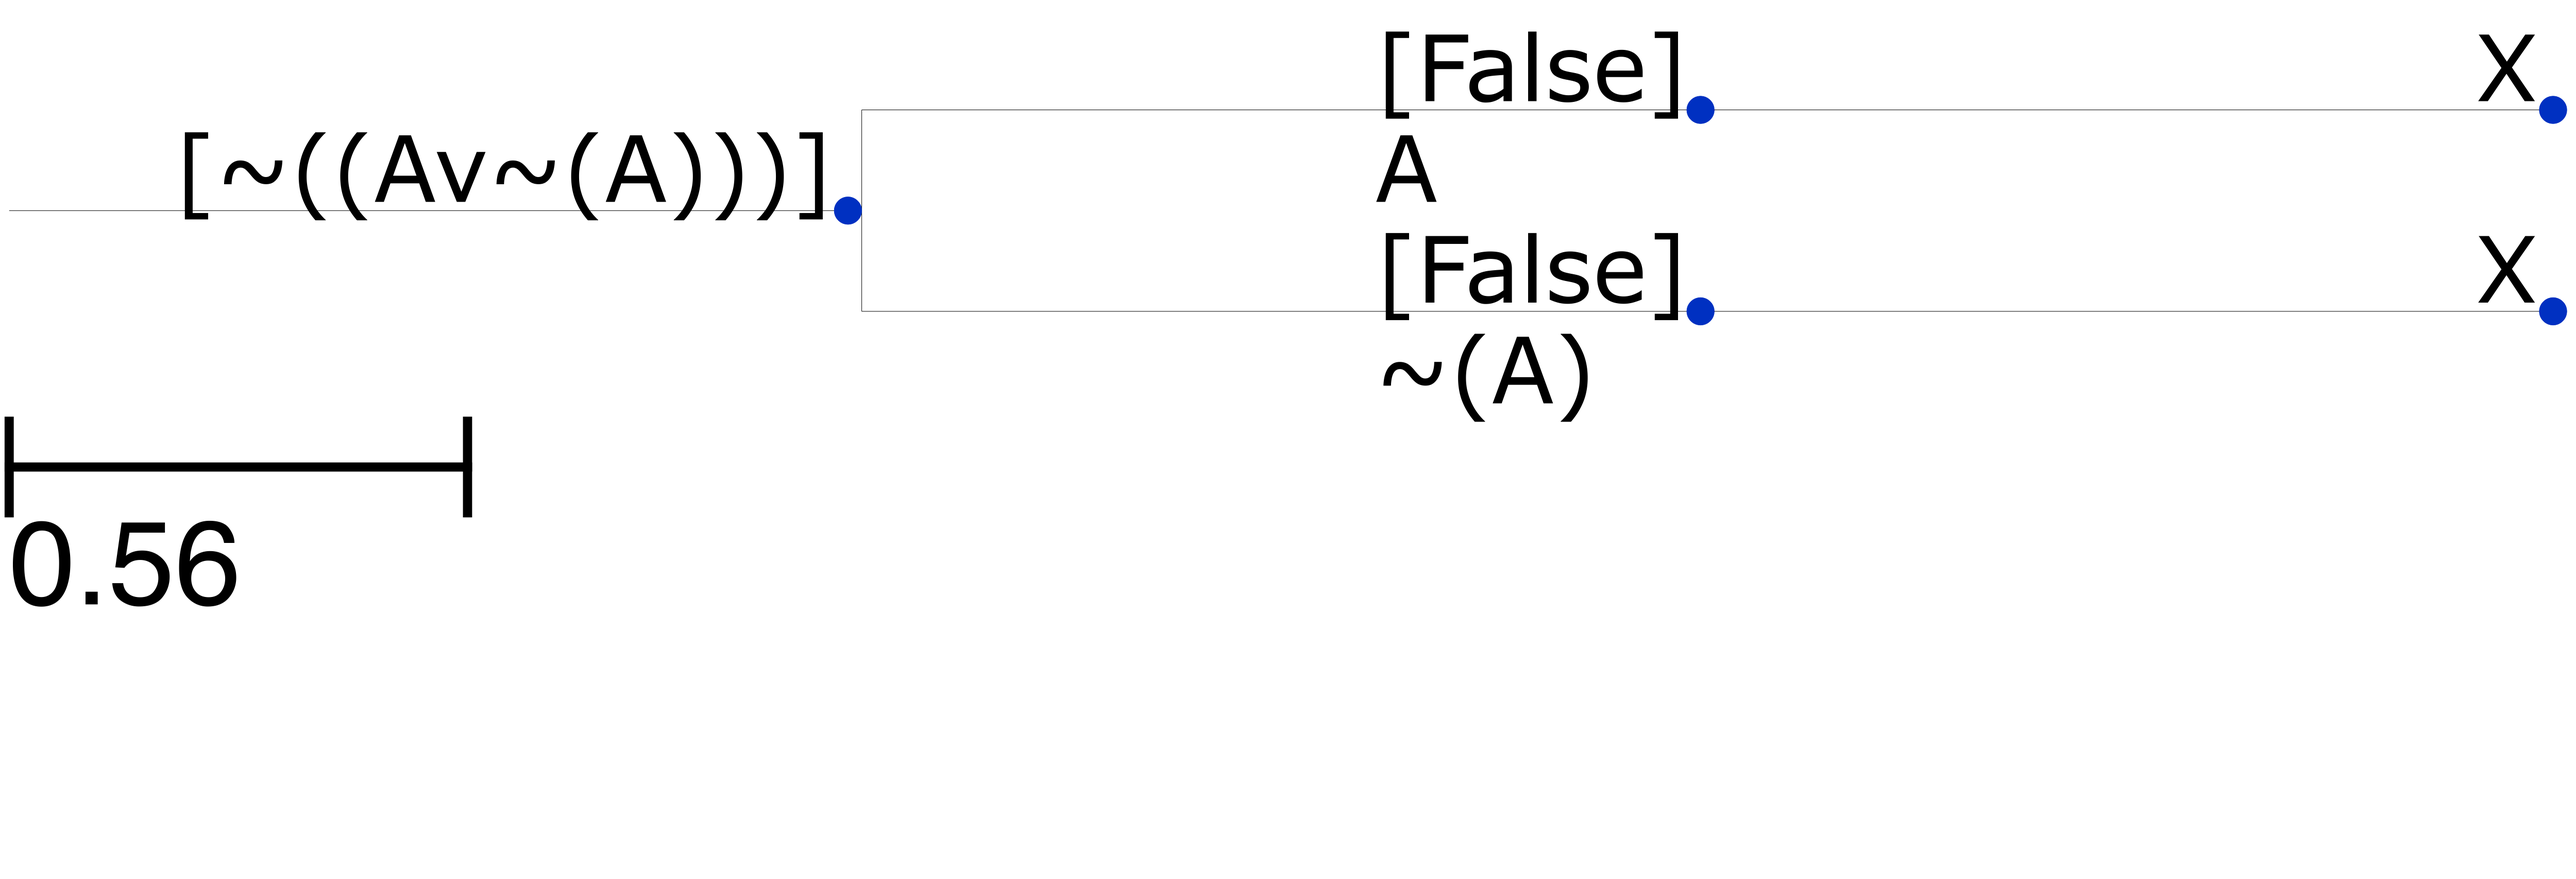
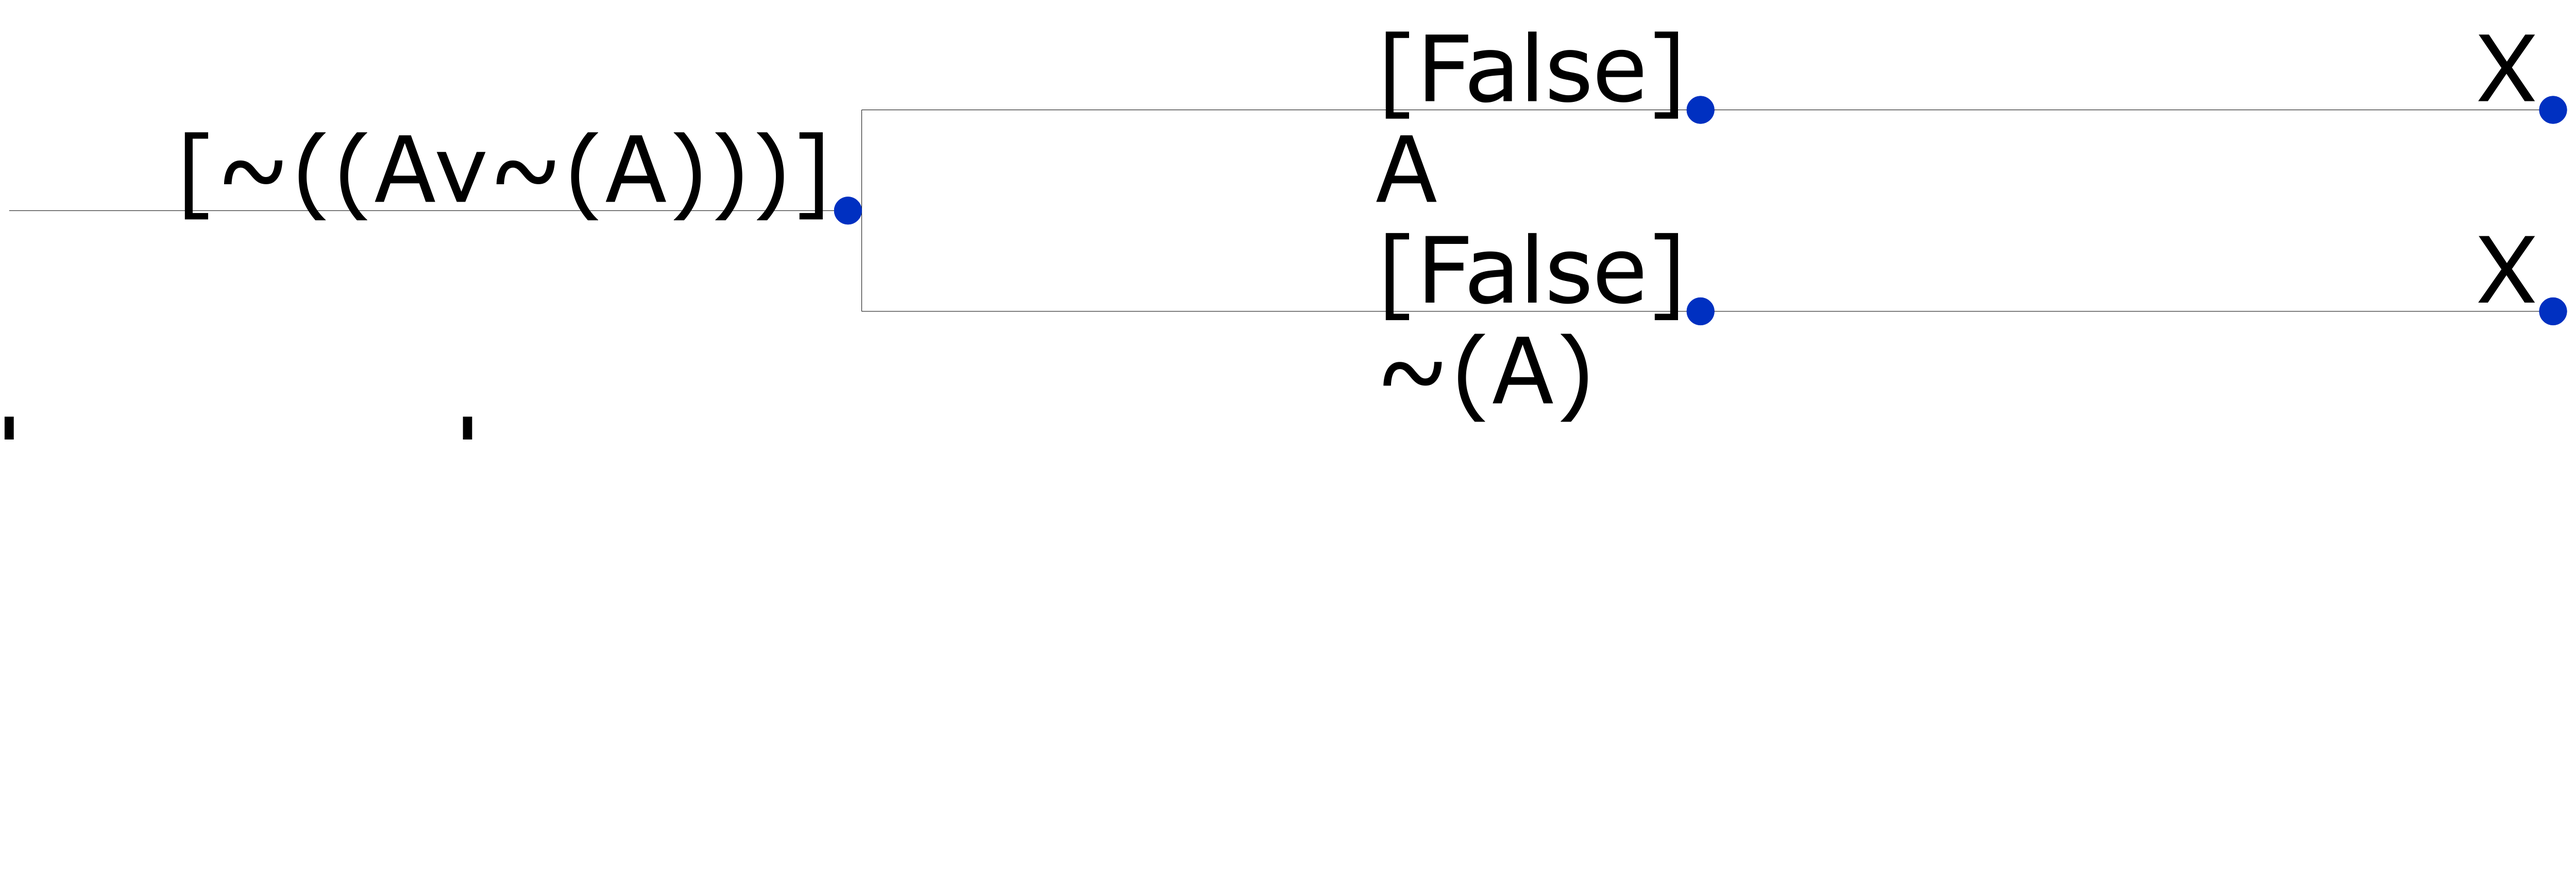
crop out the unwanted part of the resultant images

Changed region(s): [[0.0, 0.4965, 0.1872, 0.7137]]

diff --git a/server.py b/server.py
@@ -1,6 +1,7 @@
 from flask import Flask, render_template, g, abort, request, flash, get_flashed_messages
 from flaskext.markdown import Markdown
 from ete3 import Tree, TreeStyle, TextFace
+from PIL import Image, ImageDraw
 import sys
 import os
 
@@ -96,6 +97,14 @@ def argument(name):
 
     # render the file and save it
     tree.render(argument_tree, tree_style=ts, w=5000)
+
+    # crop out the unwanted part of the image...
+    im = Image.open(argument_tree)
+    (x, y) = im.size
+
+    draw = ImageDraw.Draw(im)
+    draw.rectangle((0, y*.5, x*.25, y), fill="white")
+    im.save(argument_tree, "PNG")
 
     return render_template("argument.html")
 
